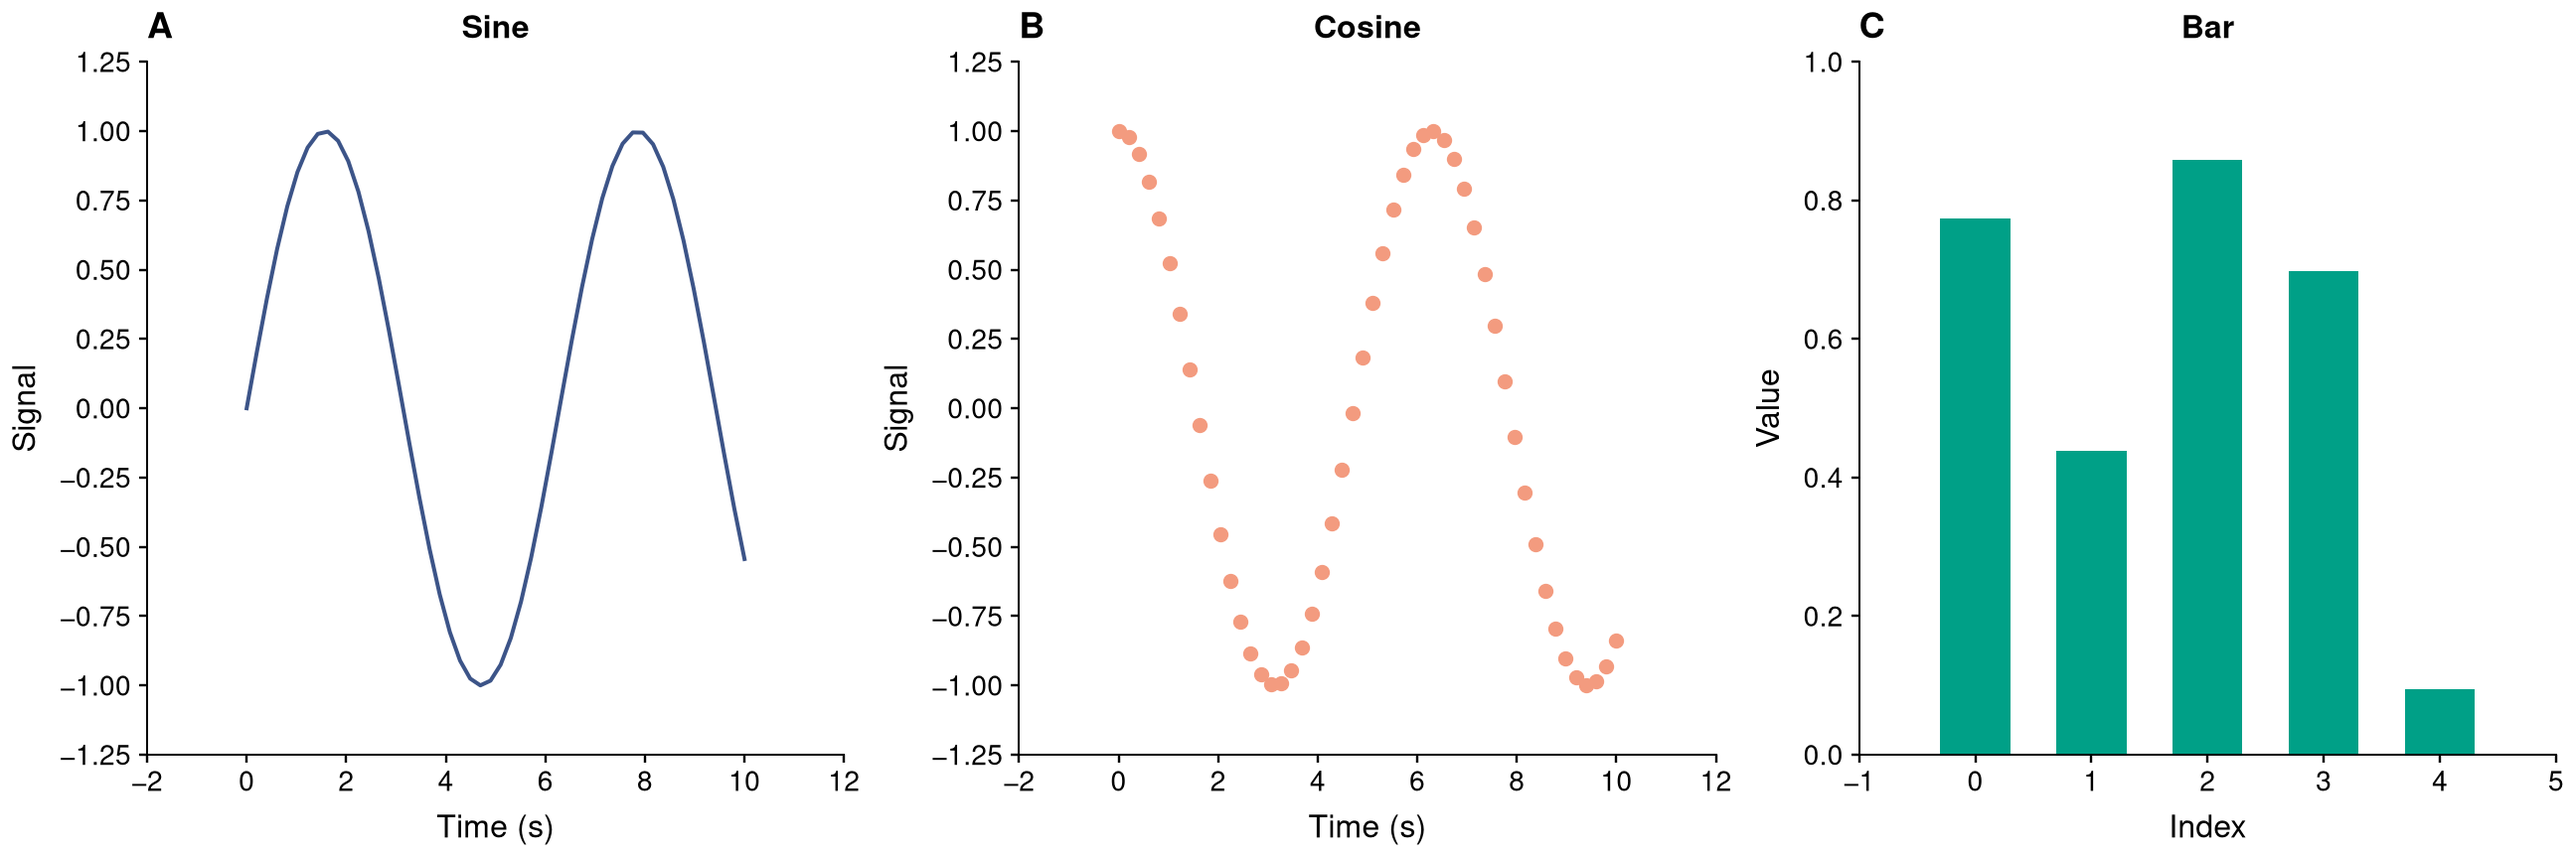
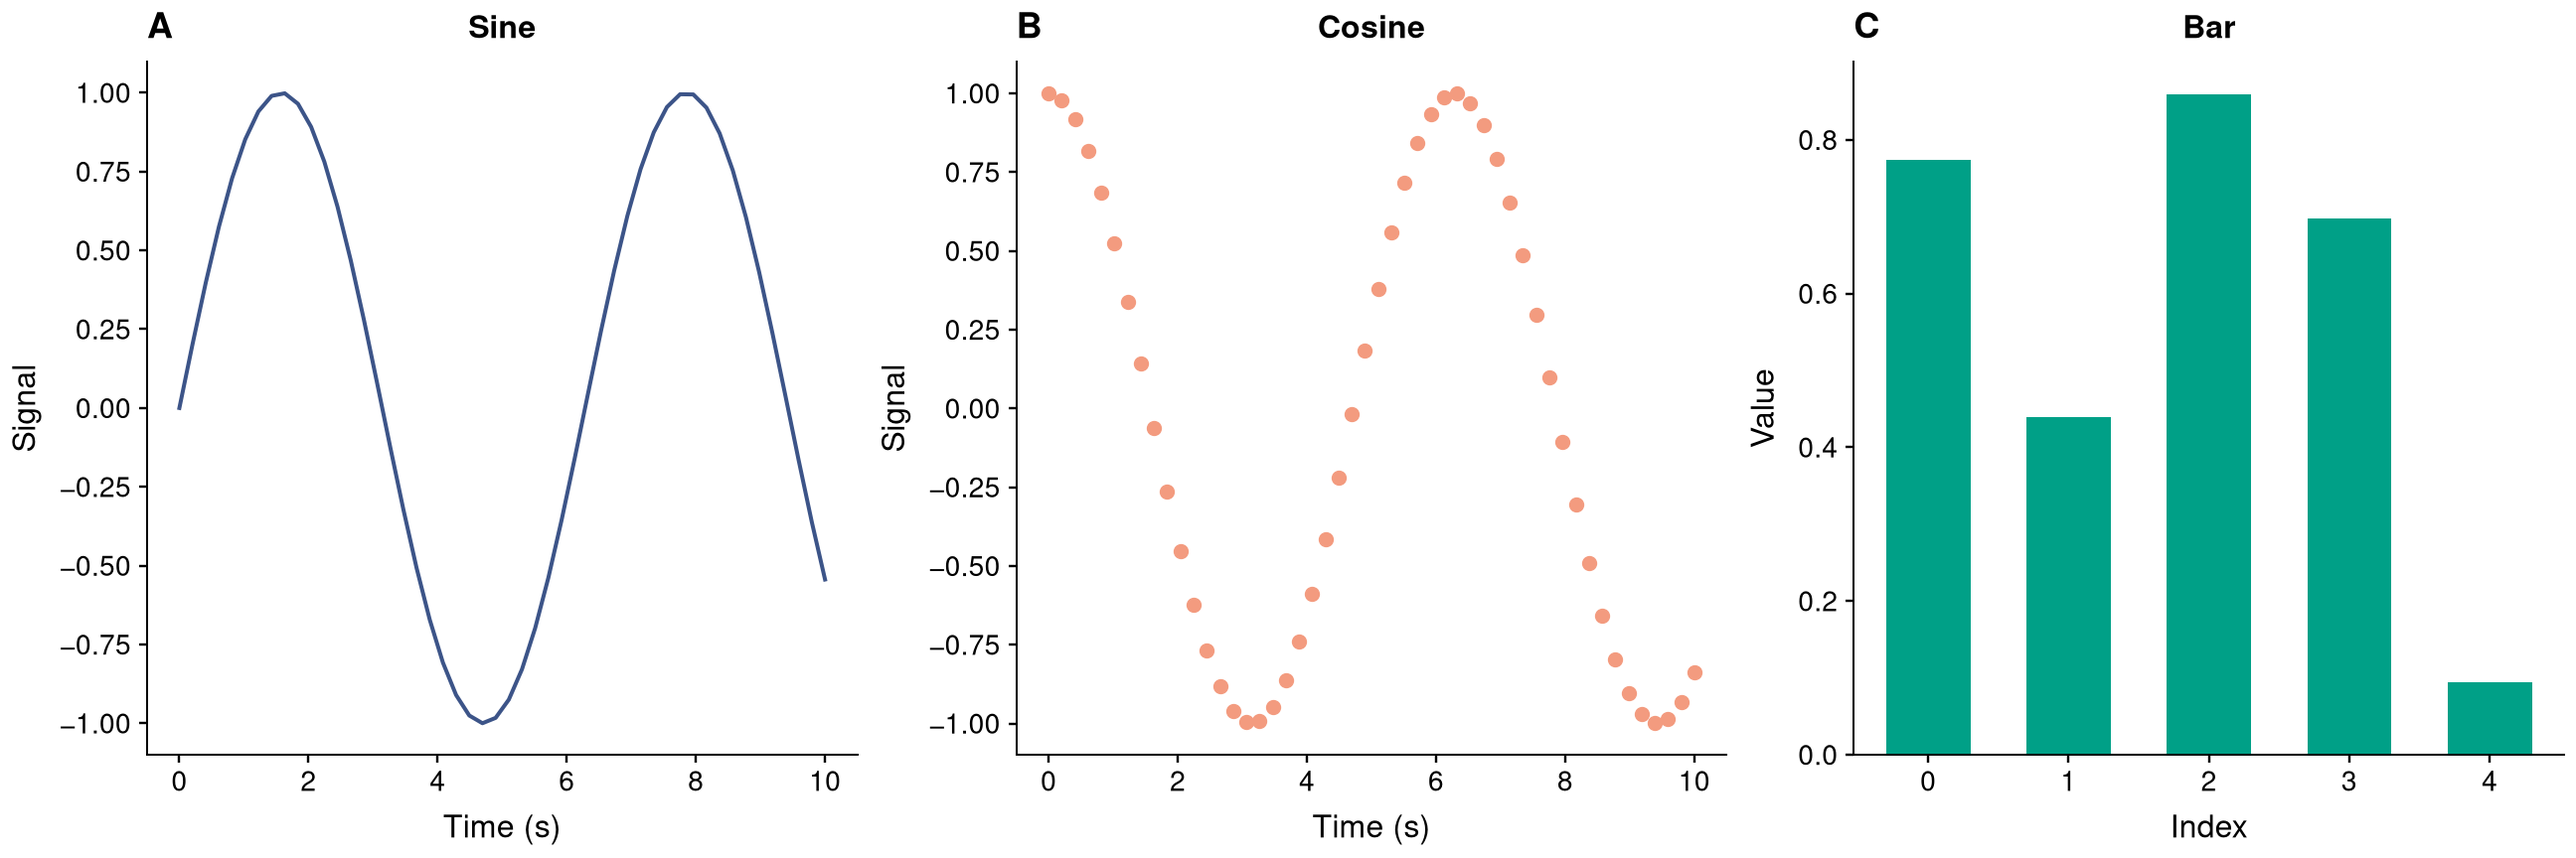
Update docs and examples: precedence and reuse notes, extraction coverage table, Panel.render labels default, cleaned example imports, regenerated gallery

diff --git a/examples/grid_3x3.py b/examples/grid_3x3.py
@@ -14,7 +14,7 @@ import matplotlib.pyplot as plt
 import numpy as np
 
 import figurepatch as fp
-from _style import PALETTE, BLUE, SALMON, TEAL, SLATE, CRIMSON, BROWN, MINT, setup_ax, style
+from _style import BLUE, SALMON, TEAL, SLATE, CRIMSON, BROWN, MINT, setup_ax, style
 
 OUTPUT = Path(__file__).parent / "output"
 OUTPUT.mkdir(exist_ok=True)

diff --git a/examples/grid_2x3.py b/examples/grid_2x3.py
@@ -14,7 +14,7 @@ import matplotlib.pyplot as plt
 import numpy as np
 
 import figurepatch as fp
-from _style import PALETTE, BLUE, SALMON, TEAL, SLATE, CRIMSON, BROWN, setup_ax, style
+from _style import BLUE, SALMON, TEAL, SLATE, CRIMSON, BROWN, setup_ax, style
 
 OUTPUT = Path(__file__).parent / "output"
 OUTPUT.mkdir(exist_ok=True)

diff --git a/examples/grid_1x6.py b/examples/grid_1x6.py
@@ -14,7 +14,7 @@ import matplotlib.pyplot as plt
 import numpy as np
 
 import figurepatch as fp
-from _style import BLUE, SALMON, TEAL, SLATE, CRIMSON, BROWN, setup_ax, style
+from _style import BLUE, SALMON, TEAL, SLATE, CRIMSON, setup_ax, style
 
 OUTPUT = Path(__file__).parent / "output"
 OUTPUT.mkdir(exist_ok=True)

diff --git a/README.md b/README.md
@@ -22,6 +22,8 @@ Powered by Matplotlib's native `constrained_layout` engine — automatically pre
 | `(p1 | p2) / p3` | Nested spanning | Top row 2 panels, bottom row spans full width |
 | `(p1 | p2 | p3) / (p4 | p5 | p6)` | Equal grid | 2 rows × 3 columns |
 
+Operator precedence follows Python: `/` binds tighter than `|` (both left-associative), so `a | b / c | d` means `((a | (b / c)) | d)` — use parentheses to make spanning explicit. The same panel object may be reused any number of times (`p | p` gives two independent panels).
+
 ---
 
 ## Quick Start
@@ -184,7 +186,7 @@ fig.savefig("figure.pdf")
 FigurePatch compiles arbitrary composition trees into an exact 2D mosaic matrix, rendered through Matplotlib's native `layout="constrained"` engine:
 
 1. **Automatic Area Alignment**: Chained horizontal or vertical panels automatically find their common least multiple and expand cleanly into grid cells.
-2. **Zero Text Collision**: Dynamically measures bounding boxes for every tick mark, axis label, title, and colorbar to guarantee no overlapping text.
+2. **Zero Text Collision**: Dynamically measures bounding boxes for every tick mark, axis label, title, and colorbar to prevent overlapping text.
 3. **No Edge Truncation**: Automatically reserves perimeter margins so negative tick values (e.g. `-1.00`) and titles are never cropped off.
 4. **Bold Panel Labels**: Adds **A**, **B**, **C**... labels at the top-left of each axes that coexist harmoniously with centered plot titles.
 
@@ -209,8 +211,10 @@ Renders the composition tree into a `matplotlib.figure.Figure`.
 - `figsize`: `(width, height)` in inches. Auto-estimated when omitted.
 - `labels`: `True` for bold **A**, **B**, **C**... labels; a string (e.g. `"S"`) for prefixed labels (`S1`, `S2`...); or `False` to disable.
 
+Note: a lone `Panel.render()` defaults to `labels=False` — a single panel is usually not lettered.
+
 ### `fp.compose(*items, direction="h", figsize=None, labels=True)`
-Post-hoc composition for existing `Figure` or `Axes` objects.
+Post-hoc composition for existing `Figure` or `Axes` objects. Extraction round-trips lines, scatter, bars/rectangles, images (`imshow`), `pcolormesh`, `fill_between`/`stackplot`, `errorbar`, `hexbin`, pie wedges, texts, and legends — preserving limits, scales, categorical tick labels, image origin/aspect, and legend placement. Colorbar axes are folded away rather than occupying a grid cell. Contour plots are not yet extractable (a warning is emitted); wrap them in a `@fp.panel` instead.
 
 ---
 
@@ -224,6 +228,10 @@ FigurePatch receives standard `matplotlib.axes.Axes`, making it 100% compatible 
 | **Seaborn** | Pass `ax=ax` (e.g., `sns.lineplot(..., ax=ax)`) | Supported |
 | **pandas** | Pass `ax=ax` (e.g., `df.plot(..., ax=ax)`) | Supported |
 | **Scanpy** | Pass `ax=ax` (e.g., `sc.pl.umap(..., ax=ax)`) | Supported |
+
+The `@fp.panel` decorator accepts any function that draws on an `Axes`, so all of the above work as panels. The `fp.compose` extraction path additionally covers lines, scatter, bars, images, meshes, filled regions, errorbars, texts, and legends; exotic artists (contours, 3D, animations) are skipped with a warning.
+
+**Requires** Python 3.10+ and Matplotlib 3.9+.
 
 ---
 
